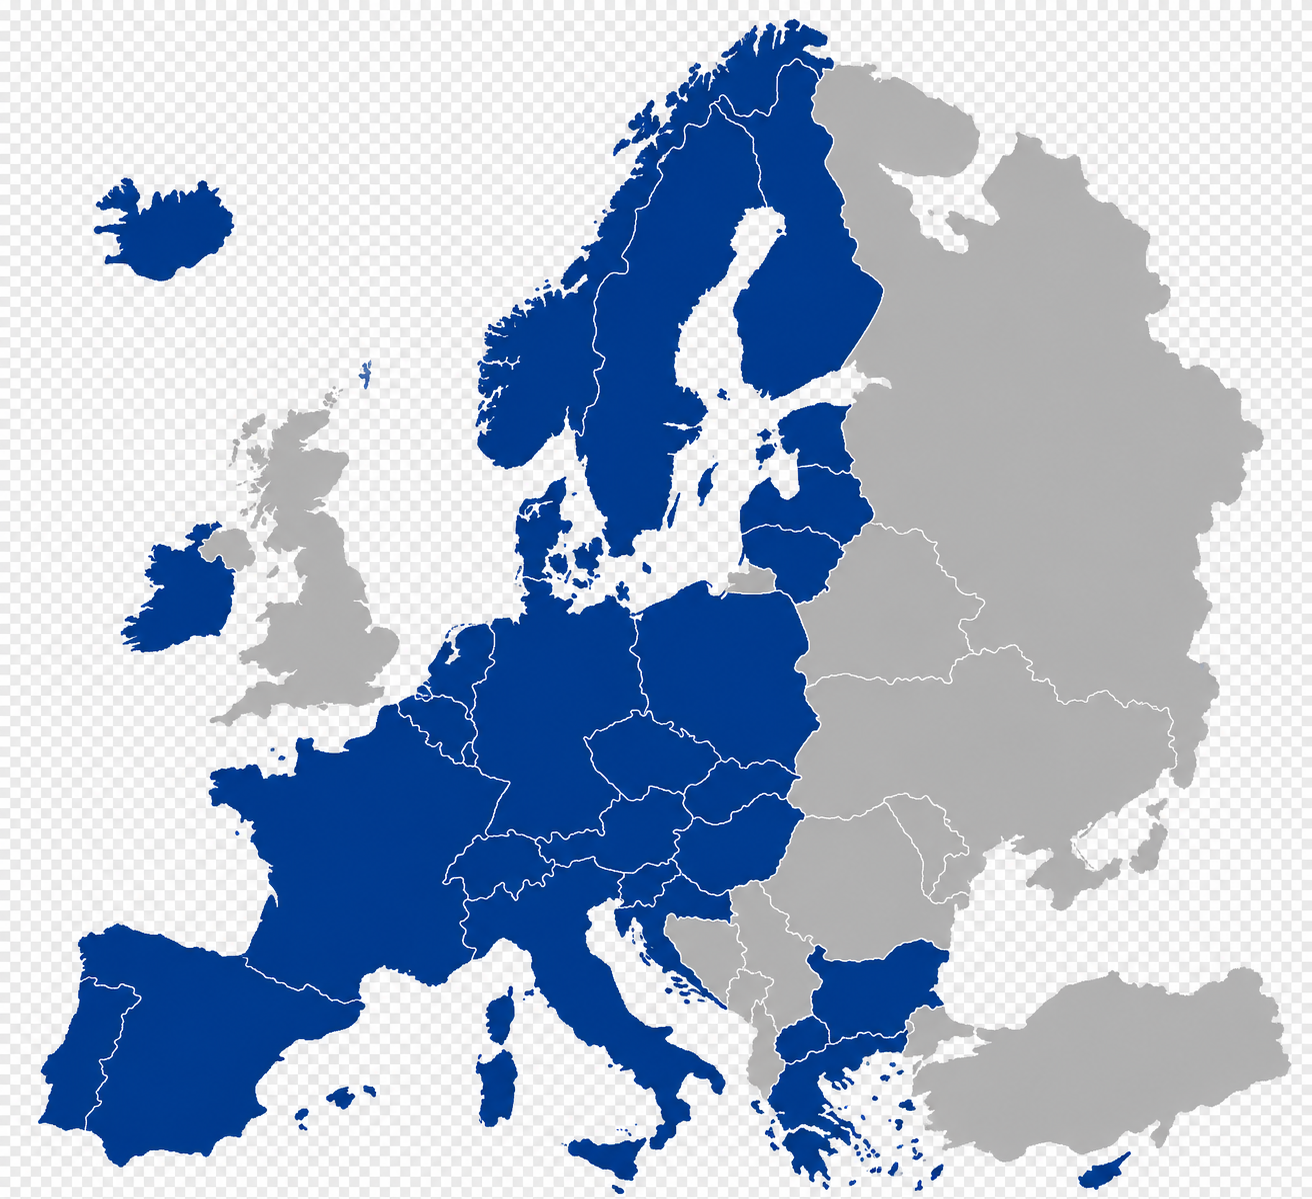
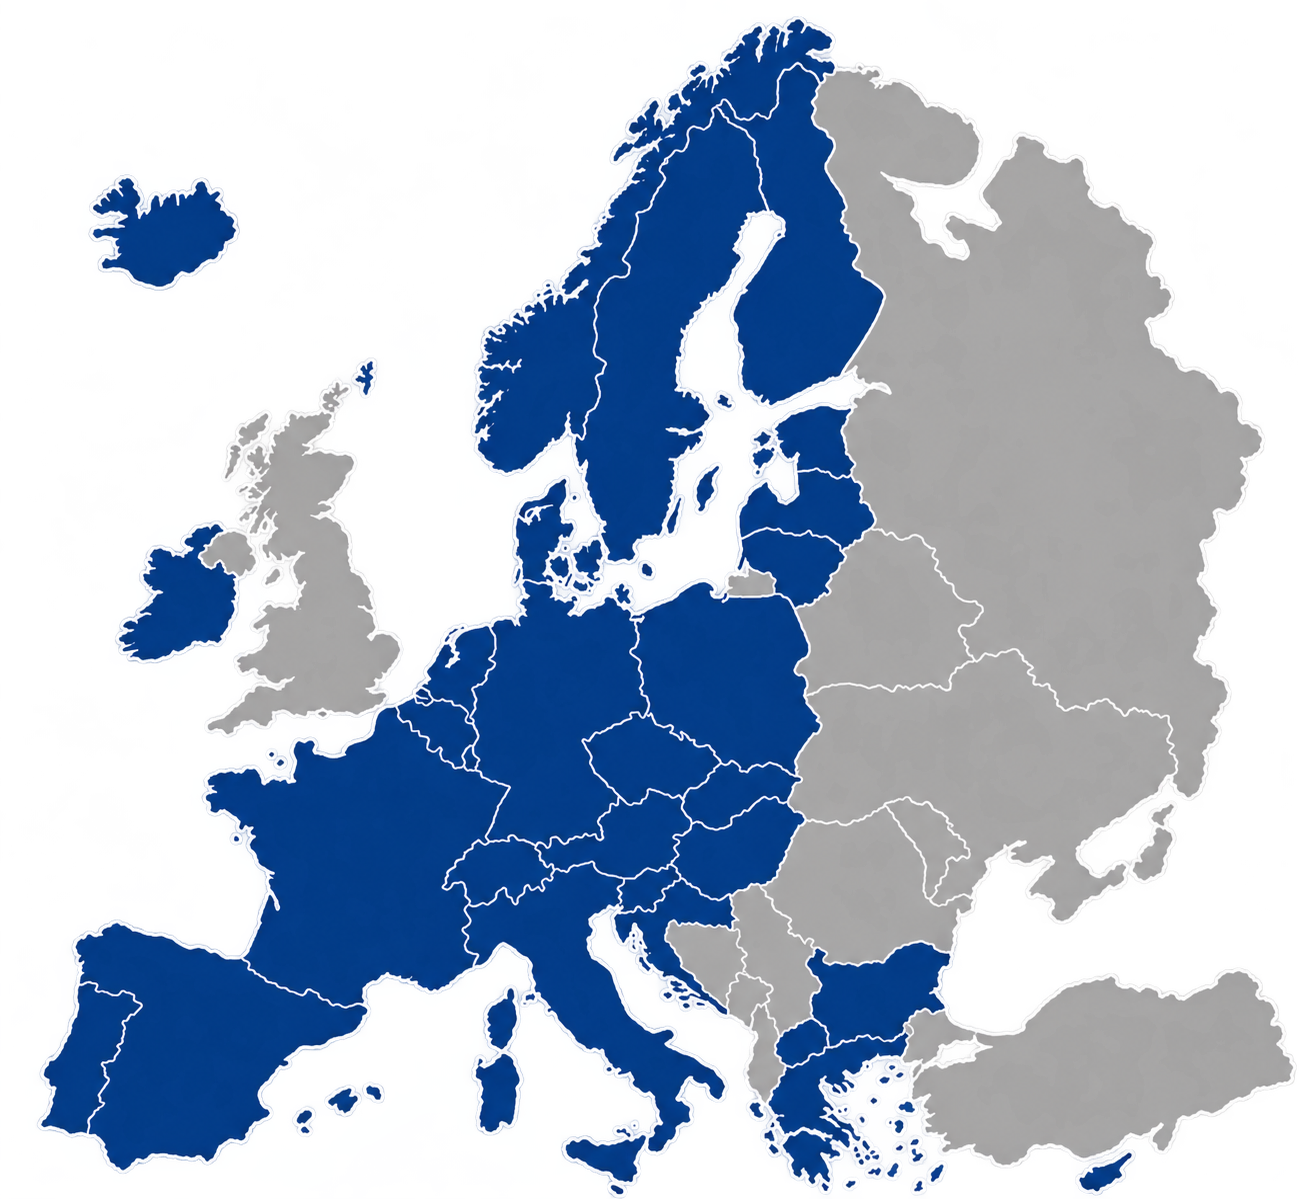
clean up

diff --git a/src/components/Summary/Summary.test.tsx b/src/components/Summary/Summary.test.tsx
@@ -1,0 +1,45 @@
+import { render, screen } from "@testing-library/react";
+import { describe, expect, it, vi } from "vitest";
+import { Summary } from "./Summary.tsx";
+
+describe("Summary", () => {
+  it("renders the allowance summary and alert", () => {
+    render(
+      <Summary
+        result={{
+          plan: {
+            referenceDate: "2025-01-15",
+            windowStart: "2024-07-18",
+            daysUsed: 25,
+            daysRemaining: 65,
+            nextEntry: "2025-01-16",
+            nextLastDay: "2025-02-10",
+            nextMaxDays: 25,
+          },
+          trips: [
+            {
+              id: "trip-1",
+              entry: "2024-12-01",
+              exit: "2024-12-10",
+              daysOfStay: 10,
+              daysInLast180: 10,
+              lastDayToStay: "2024-12-20",
+              maxStayDays: 10,
+              overstay: false,
+              excessDays: 0,
+              firstOverstayDate: null,
+            },
+          ],
+        }}
+        referenceDate="2025-01-15"
+        onReferenceDateChange={vi.fn()}
+      />,
+    );
+
+    expect(
+      screen.getByRole("heading", { name: /your allowance/i }),
+    ).toBeInTheDocument();
+    expect(screen.getByText(/days used/i)).toBeInTheDocument();
+    expect(screen.getByText(/no overstays/i)).toBeInTheDocument();
+  });
+});

diff --git a/dist/assets/index-DXm4bDta.js b/dist/assets/index-DXm4bDta.js
@@ -39406,25 +39406,23 @@ function dI(e) {
               : f.gridBodyRow({ class: b == null ? void 0 : b.gridBodyRow }),
           "data-slot": "grid-body-row",
           inert: p4(!!m),
-          children: d
-            .getDatesInWeek(C, t)
-            .map((S, T) =>
-              S
-                ? R.jsx(
-                    uI,
-                    {
-                      classNames: b,
-                      currentMonth: t,
-                      date: S,
-                      firstDayOfWeek: s,
-                      isPickerVisible: m,
-                      slots: f,
-                      state: d,
-                    },
-                    T,
-                  )
-                : R.jsx("td", {}, T),
-            ),
+          children: d.getDatesInWeek(C, t).map((S, T) =>
+            S
+              ? R.jsx(
+                  uI,
+                  {
+                    classNames: b,
+                    currentMonth: t,
+                    date: S,
+                    firstDayOfWeek: s,
+                    isPickerVisible: m,
+                    slots: f,
+                    state: d,
+                  },
+                  T,
+                )
+              : R.jsx("td", {}, T),
+          ),
         },
         C,
       ),

diff --git a/src/test/setup.ts b/src/test/setup.ts
@@ -1,6 +1,40 @@
 import "@testing-library/jest-dom/vitest";
-import { afterEach } from "vitest";
+import { afterEach, vi } from "vitest";
 import { cleanup } from "@testing-library/react";
+
+vi.mock("framer-motion", async () => {
+  const React = await import("react");
+
+  const motion = new Proxy(
+    {},
+    {
+      get: (_target, tag: string) => {
+        return ({ children, ...props }: Record<string, unknown>) => {
+          const safeProps = { ...props } as Record<string, unknown>;
+          delete safeProps.layout;
+          delete safeProps.initial;
+          delete safeProps.animate;
+          delete safeProps.exit;
+          delete safeProps.transition;
+          delete safeProps.layoutId;
+          delete safeProps.whileHover;
+          delete safeProps.whileTap;
+          delete safeProps.drag;
+          delete safeProps.dragConstraints;
+          delete safeProps.variants;
+
+          return React.createElement(tag, safeProps, children);
+        };
+      },
+    },
+  );
+
+  return {
+    motion,
+    AnimatePresence: ({ children }: { children: React.ReactNode }) =>
+      React.createElement(React.Fragment, null, children),
+  };
+});
 
 afterEach(() => {
   cleanup();

diff --git a/src/components/TripRow/TripRow.test.tsx b/src/components/TripRow/TripRow.test.tsx
@@ -1,0 +1,35 @@
+import { render, screen } from "@testing-library/react";
+import { useForm } from "react-hook-form";
+import { describe, expect, it } from "vitest";
+import type { TripInput } from "../../types.ts";
+import { TripRow } from "./TripRow.tsx";
+
+describe("TripRow", () => {
+  it("renders the entry and exit date fields for a trip", () => {
+    function Wrapper() {
+      const form = useForm<{ trips: TripInput[] }>({
+        defaultValues: {
+          trips: [{ id: "trip-1", entry: "", exit: "" }],
+        },
+      });
+
+      return (
+        <TripRow
+          index={0}
+          trip={form.getValues("trips")[0]}
+          control={form.control}
+          onRemove={() => {}}
+        />
+      );
+    }
+
+    render(<Wrapper />);
+
+    expect(
+      screen.getAllByLabelText(/date of entry, stay 1/i).length,
+    ).toBeGreaterThan(0);
+    expect(
+      screen.getAllByLabelText(/date of exit, stay 1/i).length,
+    ).toBeGreaterThan(0);
+  });
+});

diff --git a/src/components/ClearModal/ClearModal.test.tsx b/src/components/ClearModal/ClearModal.test.tsx
@@ -1,0 +1,30 @@
+import { fireEvent, render, screen } from "@testing-library/react";
+import { describe, expect, it, vi } from "vitest";
+import { ClearModal } from "./ClearModal.tsx";
+
+describe("ClearModal", () => {
+  it("renders the reset warning and confirms the clear action", () => {
+    const onOpenChange = vi.fn();
+    const onConfirm = vi.fn();
+    const { unmount } = render(
+      <ClearModal
+        isOpen={true}
+        onOpenChange={onOpenChange}
+        onConfirm={onConfirm}
+      />,
+    );
+
+    expect(screen.getByRole("dialog")).toBeInTheDocument();
+    expect(screen.getByText(/clear all dates\?/i)).toBeInTheDocument();
+    expect(
+      screen.getByText(
+        /this removes every stay you entered and clears your results/i,
+      ),
+    ).toBeInTheDocument();
+
+    fireEvent.click(screen.getByRole("button", { name: /clear all/i }));
+
+    expect(onConfirm).toHaveBeenCalledTimes(1);
+    unmount();
+  });
+});

diff --git a/src/components/Calculator/Calculator.tsx b/src/components/Calculator/Calculator.tsx
@@ -1,15 +1,15 @@
 import { Alert, Card, CardBody, useDisclosure } from "@heroui/react";
 import { useMemo, useState } from "react";
-import { CalculatorForm } from "./CalculatorForm.tsx";
-import { ClearModal } from "./ClearModal.tsx";
-import { Summary } from "./Summary.tsx";
+import { CalculatorForm } from "../CalculatorForm/CalculatorForm.tsx";
+import { ClearModal } from "../ClearModal/ClearModal.tsx";
+import { Summary } from "../Summary/Summary.tsx";
 import {
   calculate,
   createTrip,
   todayIso,
   validateTrips,
-} from "../utils/schengen.ts";
-import type { TripInput, ValidationErrors } from "../types.ts";
+} from "../../utils/schengen.ts";
+import type { TripInput, ValidationErrors } from "../../types.ts";
 
 export function Calculator() {
   const [submittedTrips, setSubmittedTrips] = useState<TripInput[]>([

diff --git a/src/components/CalculatorForm/CalculatorForm.test.tsx b/src/components/CalculatorForm/CalculatorForm.test.tsx
@@ -1,0 +1,28 @@
+import { render, screen } from "@testing-library/react";
+import { describe, expect, it, vi } from "vitest";
+import { CalculatorForm } from "./CalculatorForm.tsx";
+
+describe("CalculatorForm", () => {
+  it("renders the form controls and calculate action", () => {
+    const onCalculate = vi.fn();
+    const onReset = vi.fn();
+
+    render(
+      <CalculatorForm
+        trips={[]}
+        errors={{}}
+        result={null}
+        onCalculate={onCalculate}
+        onReset={onReset}
+      />,
+    );
+
+    expect(
+      screen.getByRole("button", { name: /add stay/i }),
+    ).toBeInTheDocument();
+    expect(
+      screen.getByRole("button", { name: /calculate/i }),
+    ).toBeInTheDocument();
+    expect(screen.getByRole("button", { name: /reset/i })).toBeInTheDocument();
+  });
+});

diff --git a/src/components/TripRow/TripRow.tsx b/src/components/TripRow/TripRow.tsx
@@ -4,11 +4,11 @@ import clsx from "clsx";
 import { motion } from "framer-motion";
 import * as React from "react";
 import { type Control, Controller } from "react-hook-form";
-import { ROW_GRID } from "../constants.ts";
-import { parseIsoDate, toIsoDate } from "../utils/dates.ts";
-import { formatDate, plural } from "../utils/format.ts";
-import type { TripInput, TripResult } from "../types.ts";
-import { Cell } from "./Cell.tsx";
+import { ROW_GRID } from "../../constants.ts";
+import { parseIsoDate, toIsoDate } from "../../utils/dates.ts";
+import { formatDate, plural } from "../../utils/format.ts";
+import type { TripInput, TripResult } from "../../types.ts";
+import { Cell } from "../Cell/Cell.tsx";
 
 type Props = {
   index: number;

diff --git a/src/components/Summary/Summary.tsx b/src/components/Summary/Summary.tsx
@@ -1,9 +1,9 @@
 import { Card, CardBody, DatePicker, Progress } from "@heroui/react";
-import { OverstayAlert } from "./OverstayAlert/OverstayAlert.tsx";
-import { formatDate, plural } from "../utils/format.ts";
-import { parseIsoDate, toIsoDate } from "../utils/dates.ts";
-import { MAX_DAYS } from "../utils/schengen.ts";
-import type { CalculationResult } from "../types.ts";
+import { OverstayAlert } from "../OverstayAlert/OverstayAlert.tsx";
+import { parseIsoDate, toIsoDate } from "../../utils/dates.ts";
+import { formatDate, plural } from "../../utils/format.ts";
+import { MAX_DAYS } from "../../utils/schengen.ts";
+import type { CalculationResult } from "../../types.ts";
 
 type Props = {
   result: CalculationResult;

diff --git a/src/components/CalculatorForm/CalculatorForm.tsx b/src/components/CalculatorForm/CalculatorForm.tsx
@@ -3,14 +3,14 @@ import { Button } from "@heroui/react";
 import { PlusIcon } from "@heroicons/react/24/outline";
 import { useForm, useWatch } from "react-hook-form";
 import { AnimatePresence } from "framer-motion";
-import { COLUMN_HEADERS, ROW_GRID } from "../constants.ts";
-import { isBlank } from "../utils/schengen.ts";
+import { COLUMN_HEADERS, ROW_GRID } from "../../constants.ts";
+import { isBlank } from "../../utils/schengen.ts";
 import type {
   CalculationResult,
   TripInput,
   ValidationErrors,
-} from "../types.ts";
-import { TripRow } from "./TripRow.tsx";
+} from "../../types.ts";
+import { TripRow } from "../TripRow/TripRow.tsx";
 
 type CalculatorFormProps = {
   trips: TripInput[];

diff --git a/src/components/Calculator/Calculator.test.tsx b/src/components/Calculator/Calculator.test.tsx
@@ -1,0 +1,16 @@
+import { render, screen } from "@testing-library/react";
+import { describe, expect, it } from "vitest";
+import { Calculator } from "./Calculator.tsx";
+
+describe("Calculator", () => {
+  it("renders the calculator shell and action controls", () => {
+    render(<Calculator />);
+
+    expect(
+      screen.getByText(/important information about schengen visa rules/i),
+    ).toBeInTheDocument();
+    expect(
+      screen.getByRole("button", { name: /calculate/i }),
+    ).toBeInTheDocument();
+  });
+});

diff --git a/dist/assets/index-Ddmf5fJ6.css b/dist/assets/index-Ddmf5fJ6.css
@@ -9000,10 +9000,9 @@
       display: none;
     }
     .lg\:grid-cols-\[minmax\(0\,1\.3fr\)_minmax\(0\,1\.3fr\)_minmax\(0\,0\.8fr\)_minmax\(0\,1fr\)_minmax\(0\,1\.4fr\)_2\.5rem\] {
-      grid-template-columns: minmax(0, 1.3fr) minmax(0, 1.3fr) minmax(
-          0,
-          0.8fr
-        ) minmax(0, 1fr) minmax(0, 1.4fr) 2.5rem;
+      grid-template-columns:
+        minmax(0, 1.3fr) minmax(0, 1.3fr) minmax(0, 0.8fr)
+        minmax(0, 1fr) minmax(0, 1.4fr) 2.5rem;
     }
     .lg\:gap-0 {
       gap: 0;
